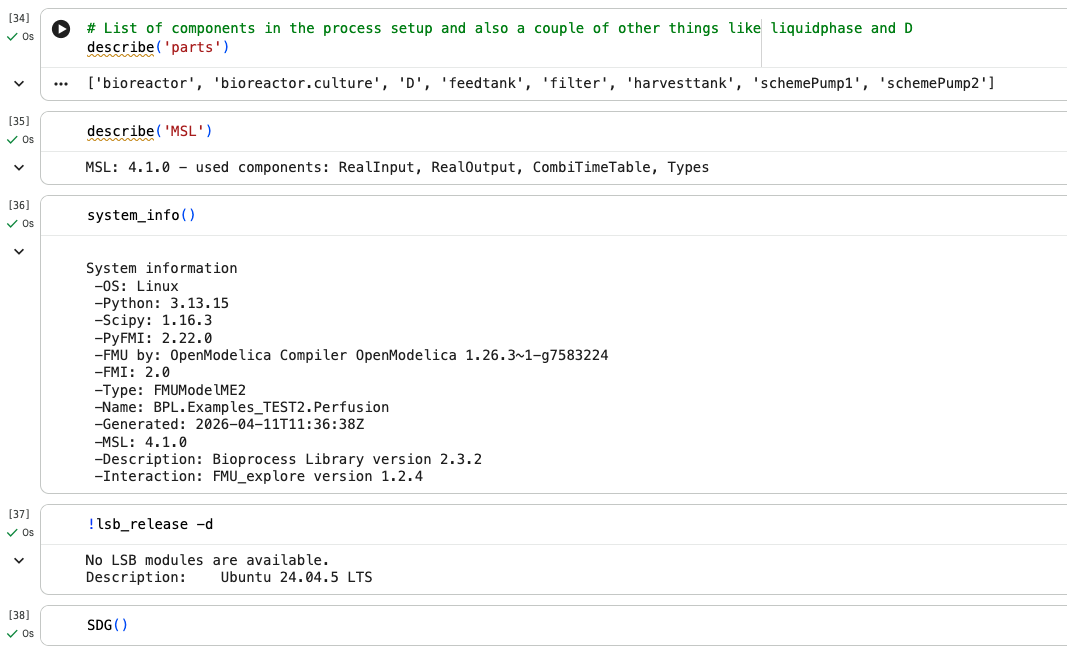
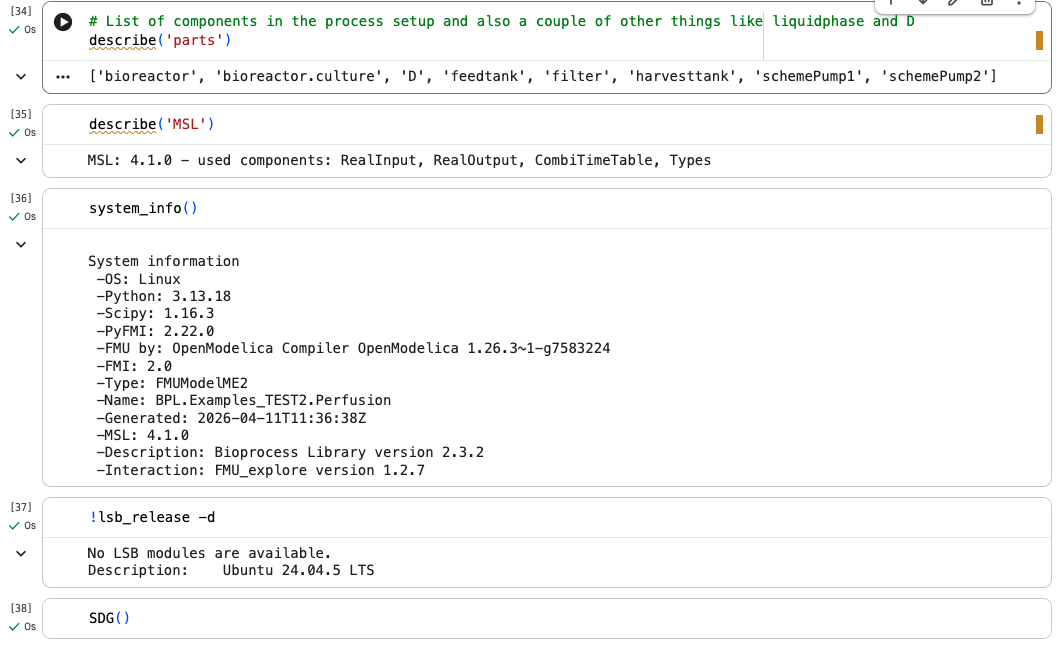
Updated model to self.model in cstrProdMax

Changed region(s): [[0.0, 0.0, 1.0, 0.3939], [0.0, 0.3939, 0.9934, 0.9697], [0.0, 0.7576, 0.031, 0.8182]]

diff --git a/BPL_TEST2_Perfusion_pyfmi_explore.py b/BPL_TEST2_Perfusion_pyfmi_explore.py
@@ -5,6 +5,7 @@
 # 2026-09-18 - Brought in matplotlib.pylot since used here
 # 2026-09-18 - Brought numpy back here since used in several notebooks
 # 2026-10-24 - Added clean-up section at the end
+# 2026-11-07 - Corrected to self.model in cstrProdMax
 # ------------------------------------------------------------------------------------------------------------------
 
 # ------------------------------------------------------------------------------------------------------------------
@@ -194,7 +195,7 @@ def describe(name, decimals=3):
         describe_MSL()
 
     elif name in ["cstrProdMax"]:
-        print(cstrProdMax.__doc__, ":", cstrProdMax(model), "[ g/h ]")
+        print(cstrProdMax.__doc__, ":", cstrProdMax(self.model), "[ g/h ]")
 
     else:
         describe_general(name, decimals)
